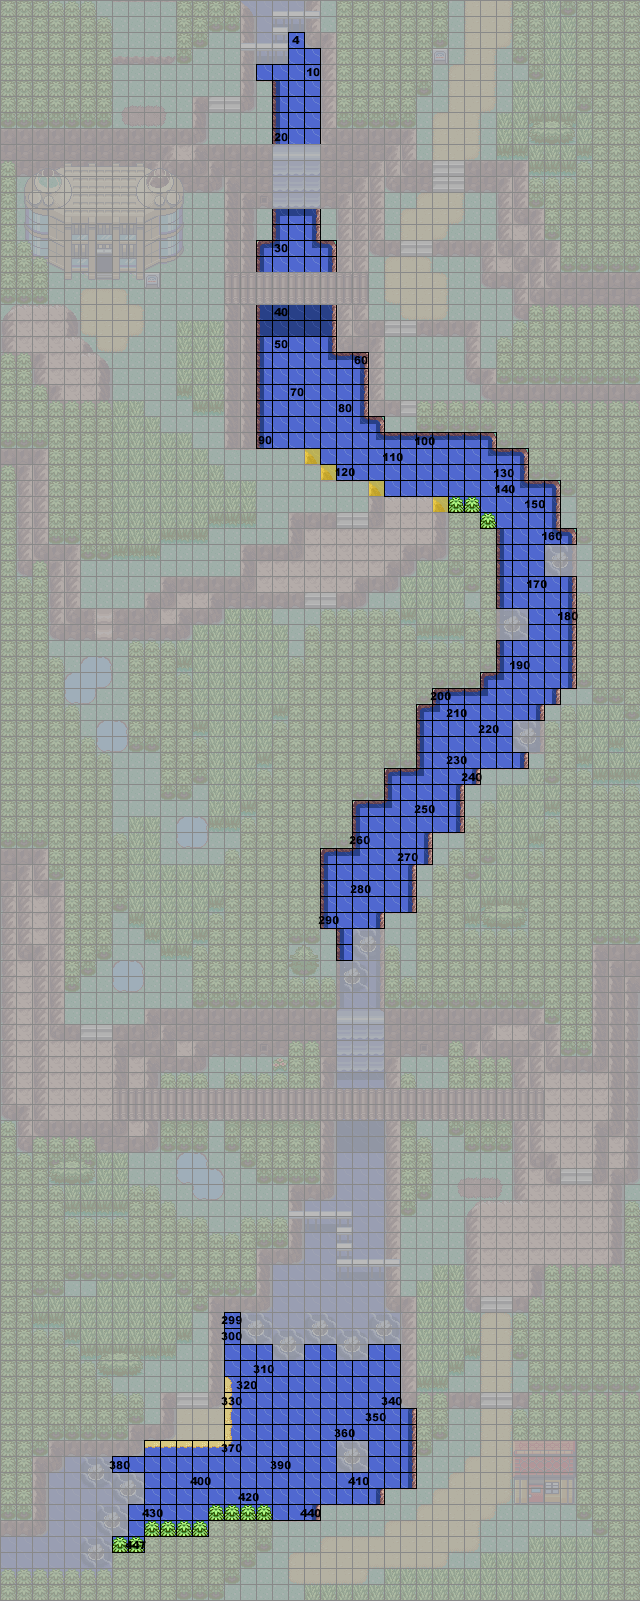
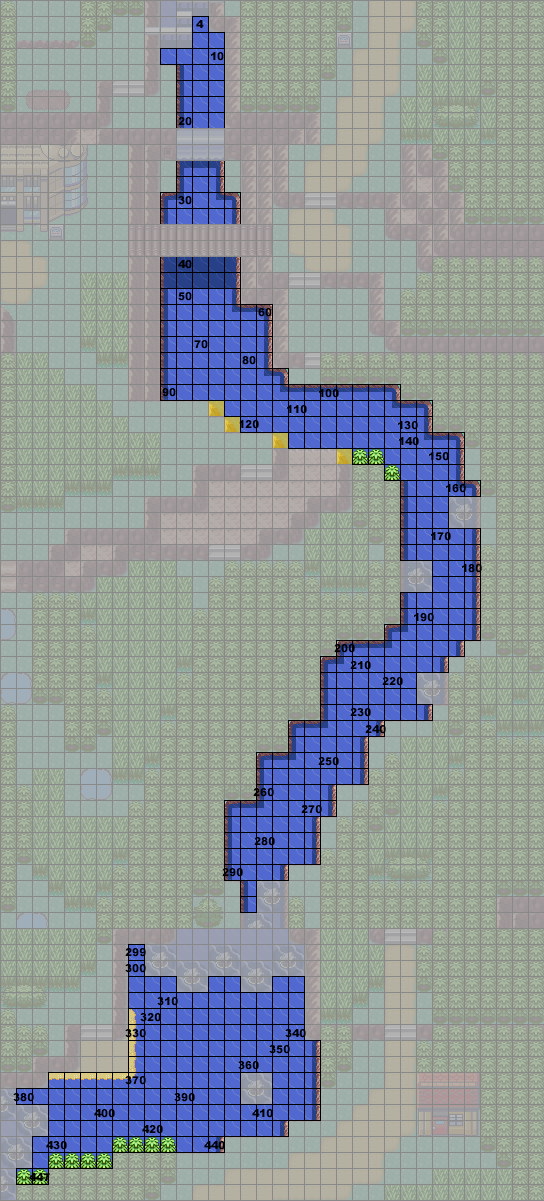
usability improvements: route image is smaller for less scrolling, fid list now appears to the right of the image

diff --git a/reverse_fid.js b/reverse_fid.js
@@ -346,77 +346,77 @@ function Row(start, row, column) {
 }
 
 const rows = [
-	new Row(4, 2, 18),
-	new Row(5, 3, 18),
-	new Row(7, 4, 16),
-	new Row(11, 5, 17),
-	new Row(14, 6, 17),
-	new Row(17, 7, 17),
-	new Row(20, 8, 17),
-	new Row(23, 13, 17),
-	new Row(26, 14, 17),
-	new Row(29, 15, 16),
-	new Row(34, 16, 16),
-	new Row(39, 19, 16),
-	new Row(44, 20, 16),
-	new Row(49, 21, 16),
-	new Row(54, 22, 16),
-	new Row(61, 23, 16),
-	new Row(68, 24, 16),
-	new Row(75, 25, 16),
-	new Row(82, 26, 16),
-	new Row(90, 27, 16),
-	new Row(105, 28, 19),
-	new Row(119, 29, 20),
-	new Row(132, 30, 23),
-	new Row(144, 31, 27),
-	new Row(152, 32, 30),
-	new Row(157, 33, 31),
-	new Row(162, 34, 31),
-	new Row(165, 35, 31),
-	new Row(168, 36, 31),
-	new Row(173, 37, 31),
-	new Row(178, 38, 33),
-	new Row(181, 39, 33),
-	new Row(184, 40, 31),
-	new Row(189, 41, 31),
-	new Row(194, 42, 30),
-	new Row(200, 43, 27),
-	new Row(208, 44, 26),
-	new Row(216, 45, 26),
-	new Row(222, 46, 26),
-	new Row(228, 47, 26),
-	new Row(235, 48, 24),
-	new Row(241, 49, 24),
-	new Row(246, 50, 22),
-	new Row(253, 51, 22),
-	new Row(260, 52, 22),
-	new Row(265, 53, 20),
-	new Row(272, 54, 20),
-	new Row(278, 55, 20),
-	new Row(284, 56, 20),
-	new Row(290, 57, 20),
-	new Row(294, 58, 21),
-	new Row(295, 59, 21),
-	new Row(299, 82, 14),
-	new Row(300, 83, 14),
-	new Row(301, 84, 14),
-	new Row(304, 84, 19),
-	new Row(306, 84, 23),
-	new Row(308, 85, 14),
-	new Row(319, 86, 14),
-	new Row(330, 87, 14),
-	new Row(341, 88, 14),
-	new Row(353, 89, 14),
-	new Row(365, 90, 9),
-	new Row(377, 90, 23),
-	new Row(380, 91, 7),
-	new Row(394, 91, 23),
-	new Row(397, 92, 9),
-	new Row(414, 93, 9),
-	new Row(429, 94, 8),
-	new Row(441, 95, 8),
-	new Row(446, 96, 7),
+	new Row(4, 1, 12),
+	new Row(5, 2, 12),
+	new Row(7, 3, 10),
+	new Row(11, 4, 11),
+	new Row(14, 5, 11),
+	new Row(17, 6, 11),
+	new Row(20, 7, 11),
+	new Row(23, 10, 11),
+	new Row(26, 11, 11),
+	new Row(29, 12, 10),
+	new Row(34, 13, 10),
+	new Row(39, 16, 10),
+	new Row(44, 17, 10),
+	new Row(49, 18, 10),
+	new Row(54, 19, 10),
+	new Row(61, 20, 10),
+	new Row(68, 21, 10),
+	new Row(75, 22, 10),
+	new Row(82, 23, 10),
+	new Row(90, 24, 10),
+	new Row(105, 25, 13),
+	new Row(119, 26, 14),
+	new Row(132, 27, 17),
+	new Row(144, 28, 21),
+	new Row(152, 29, 24),
+	new Row(157, 30, 25),
+	new Row(162, 31, 25),
+	new Row(165, 32, 25),
+	new Row(168, 33, 25),
+	new Row(173, 34, 25),
+	new Row(178, 35, 27),
+	new Row(181, 36, 27),
+	new Row(184, 37, 25),
+	new Row(189, 38, 25),
+	new Row(194, 39, 24),
+	new Row(200, 40, 21),
+	new Row(208, 41, 20),
+	new Row(216, 42, 20),
+	new Row(222, 43, 20),
+	new Row(228, 44, 20),
+	new Row(235, 45, 18),
+	new Row(241, 46, 18),
+	new Row(246, 47, 16),
+	new Row(253, 48, 16),
+	new Row(260, 49, 16),
+	new Row(265, 50, 14),
+	new Row(272, 51, 14),
+	new Row(278, 52, 14),
+	new Row(284, 53, 14),
+	new Row(290, 54, 14),
+	new Row(294, 55, 15),
+	new Row(295, 56, 15),
+	new Row(299, 59, 8),
+	new Row(300, 60, 8),
+	new Row(301, 61, 8),
+	new Row(304, 61, 13),
+	new Row(306, 61, 17),
+	new Row(308, 62, 8),
+	new Row(319, 63, 8),
+	new Row(330, 64, 8),
+	new Row(341, 65, 8),
+	new Row(353, 66, 8),
+	new Row(365, 67, 3),
+	new Row(377, 67, 17),
+	new Row(380, 68, 1),
+	new Row(394, 68, 17),
+	new Row(397, 69, 3),
+	new Row(414, 70, 3),
+	new Row(429, 71, 2),
+	new Row(441, 72, 2),
+	new Row(446, 73, 1),
 ];
 const tileSize = 16;
 

diff --git a/index.html b/index.html
@@ -45,10 +45,10 @@
 		<input type="button" id="search" value="Find Tiles" onclick="findTiles()"></input>
 		<span id="error-info"></span>
 	</div>
-	<div>
-		<canvas id="canvas" width="640", height="1601"></canvas>
+	<div class="route-img">
+		<canvas id="canvas" width="544", height="1201"></canvas>
 	</div>
-	<div>
+	<div class="fid-list">
 		<ol id="fid-list"></ol>
 	</div>
 </body>

diff --git a/index.css b/index.css
@@ -1,3 +1,11 @@
 #dry-battery:checked ~ #phrase2 {
 	display: none;
 }
+
+.route-img {
+	float: left;
+}
+
+.fid-list {
+	float: left;
+}
